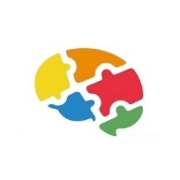
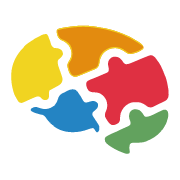
Подарок вместо бота, векторная фавиконка и единые иконки

diff --git a/gift.js b/gift.js
@@ -1,0 +1,268 @@
+/**
+ * Окно «Заявка отправлена» с подарком. Общее для всех сайтов.
+ * Настройка — атрибутами на своём теге script:
+ *   data-gift-url      — ссылка на подарок (обязательна, иначе кнопки не будет);
+ *   data-channel-url   — ссылка на канал (без неё вторая кнопка не выводится);
+ *   data-channel-label — подпись второй кнопки;
+ *   data-accent        — основной цвет;
+ *   data-logo          — картинка в шапке окна;
+ *   data-title         — заголовок;
+ *   data-text          — текст под заголовком.
+ */
+(function () {
+  'use strict';
+
+  if (window.KotiksymGift) return;
+
+  var script = document.currentScript || (function () {
+    var all = document.getElementsByTagName('script');
+    return all[all.length - 1];
+  })();
+
+  function attr(name, fallback) {
+    var v = script && script.getAttribute(name);
+    return v == null || v === '' ? fallback : v;
+  }
+
+  var GIFT_URL = attr('data-gift-url', '');
+  var CHANNEL_URL = attr('data-channel-url', '');
+  var CHANNEL_LABEL = attr('data-channel-label', 'Перейти в наш канал');
+  var GIFT_LABEL = attr('data-gift-label', 'Забрать подарок');
+  var ACCENT = attr('data-accent', '#3B4FE0');
+  var LOGO = attr('data-logo', '');
+  var TITLE = attr('data-title', 'Заявка отправлена');
+  var TEXT = attr('data-text', 'Мы свяжемся с вами по указанному номеру. А подарок можно забрать прямо сейчас.');
+
+  var MODAL_ID = 'successModal';
+  var root = null;
+  var card = null;
+  var lastFocus = null;
+  var prevOverflow = '';
+
+  function el(tag, style, text) {
+    var node = document.createElement(tag);
+    if (style) node.setAttribute('style', style);
+    if (text != null) node.textContent = text;
+    return node;
+  }
+
+  /** Внешняя ссылка-кнопка. */
+  function linkButton(href, label, style, cta) {
+    var a = el('a', style, label);
+    a.href = href;
+    a.target = '_blank';
+    a.rel = 'noopener noreferrer';
+    if (cta) a.setAttribute('data-cta', cta);
+    return a;
+  }
+
+  function build() {
+    root = el('div', [
+      'display:none',
+      'position:fixed',
+      'inset:0',
+      'z-index:2147483000',
+      'background:rgba(27,25,54,.55)',
+      '-webkit-backdrop-filter:blur(3px)',
+      'backdrop-filter:blur(3px)',
+      'place-items:center',
+      'padding:20px',
+      'overflow:auto'
+    ].join(';'));
+    root.id = MODAL_ID;
+    root.setAttribute('role', 'dialog');
+    root.setAttribute('aria-modal', 'true');
+    root.setAttribute('aria-label', TITLE);
+
+    card = el('div', [
+      'position:relative',
+      'width:min(430px,100%)',
+      'box-sizing:border-box',
+      'background:#fff',
+      'border-radius:22px',
+      'padding:34px 28px 26px',
+      'text-align:center',
+      'box-shadow:0 30px 80px rgba(27,25,54,.38)',
+      'font-family:inherit'
+    ].join(';'));
+
+    var close = el('button', [
+      'position:absolute',
+      'top:12px',
+      'right:12px',
+      'width:34px',
+      'height:34px',
+      'border:0',
+      'border-radius:10px',
+      'background:#F2F2F5',
+      'color:#6f6a64',
+      'cursor:pointer',
+      'font-size:17px',
+      'line-height:1',
+      'display:grid',
+      'place-items:center'
+    ].join(';'), '\u2715');
+    close.type = 'button';
+    close.setAttribute('aria-label', 'Закрыть');
+    close.addEventListener('click', hide);
+    card.appendChild(close);
+
+    if (LOGO) {
+      var logo = document.createElement('img');
+      logo.src = LOGO;
+      logo.alt = '';
+      logo.setAttribute('style', 'width:72px;height:72px;border-radius:18px;object-fit:contain;background:#fff;border:1px solid #ECECF1;padding:7px;margin:0 auto 16px;display:block');
+      card.appendChild(logo);
+    }
+
+    var badge = el('div', [
+      'display:inline-block',
+      'padding:6px 13px',
+      'border-radius:999px',
+      'background:#EAF6EF',
+      'color:#1F7A54',
+      'font-size:13px',
+      'font-weight:600',
+      'margin-bottom:13px'
+    ].join(';'), 'Заявка отправлена');
+    card.appendChild(badge);
+
+    var h = el('h3', [
+      'font-weight:700',
+      'font-size:23px',
+      'line-height:1.2',
+      'letter-spacing:-.02em',
+      'margin:0 0 10px',
+      'color:#1B1936'
+    ].join(';'), TITLE);
+    card.appendChild(h);
+
+    var p = el('p', [
+      'font-size:15px',
+      'line-height:1.55',
+      'color:#6f6a64',
+      'margin:0 0 22px'
+    ].join(';'), TEXT);
+    card.appendChild(p);
+
+    var actions = el('div', 'display:grid;gap:10px');
+
+    var baseButton = [
+      'display:flex',
+      'align-items:center',
+      'justify-content:center',
+      'gap:8px',
+      'width:100%',
+      'box-sizing:border-box',
+      'padding:15px 16px',
+      'border-radius:13px',
+      'font-weight:700',
+      'font-size:16px',
+      'text-decoration:none',
+      'cursor:pointer'
+    ].join(';');
+
+    if (GIFT_URL) {
+      actions.appendChild(linkButton(
+        GIFT_URL,
+        '\uD83C\uDF81 ' + GIFT_LABEL,
+        baseButton + ';color:#fff;background:' + ACCENT + ';box-shadow:0 12px 26px rgba(27,25,54,.22)',
+        'gift'
+      ));
+    }
+
+    if (CHANNEL_URL) {
+      actions.appendChild(linkButton(
+        CHANNEL_URL,
+        CHANNEL_LABEL,
+        baseButton + ';color:' + ACCENT + ';background:#fff;border:1.5px solid ' + ACCENT,
+        'channel'
+      ));
+    }
+
+    card.appendChild(actions);
+
+    var later = el('button', [
+      'margin-top:12px',
+      'background:none',
+      'border:0',
+      'color:#9b9590',
+      'font:inherit',
+      'font-size:14px',
+      'cursor:pointer',
+      'text-decoration:underline',
+      'text-underline-offset:2px'
+    ].join(';'), 'Позже');
+    later.type = 'button';
+    later.addEventListener('click', hide);
+    card.appendChild(later);
+
+    root.appendChild(card);
+
+    root.addEventListener('click', function (e) {
+      if (e.target === root) hide();
+    });
+
+    document.body.appendChild(root);
+  }
+
+  function onKeydown(e) {
+    if (e.key === 'Escape' || e.keyCode === 27) hide();
+  }
+
+  /** Старое окно из разметки страницы, если оно где-то осталось. */
+  function dropLegacy() {
+    var nodes = document.querySelectorAll('#' + MODAL_ID);
+    for (var i = 0; i < nodes.length; i++) {
+      if (nodes[i] !== root && nodes[i].parentNode) {
+        nodes[i].parentNode.removeChild(nodes[i]);
+      }
+    }
+  }
+
+  function ensure() {
+    if (!document.body) return false;
+    dropLegacy();
+    if (!root || !root.parentNode) build();
+    return true;
+  }
+
+  function show() {
+    if (!ensure()) {
+      document.addEventListener('DOMContentLoaded', show, { once: true });
+      return;
+    }
+    lastFocus = document.activeElement;
+    root.style.display = 'grid';
+    prevOverflow = document.body.style.overflow;
+    document.body.style.overflow = 'hidden';
+    document.addEventListener('keydown', onKeydown);
+    var first = card.querySelector('a, button');
+    if (first && first.focus) {
+      try { first.focus({ preventScroll: true }); } catch (e) { first.focus(); }
+    }
+  }
+
+  function hide() {
+    if (!root) return;
+    root.style.display = 'none';
+    document.body.style.overflow = prevOverflow;
+    document.removeEventListener('keydown', onKeydown);
+    if (lastFocus && lastFocus.focus) {
+      try { lastFocus.focus({ preventScroll: true }); } catch (e) {}
+    }
+  }
+
+  window.KotiksymGift = {
+    show: show,
+    hide: hide,
+    giftUrl: GIFT_URL,
+    channelUrl: CHANNEL_URL
+  };
+
+  if (document.readyState === 'loading') {
+    document.addEventListener('DOMContentLoaded', ensure);
+  } else {
+    ensure();
+  }
+})();

diff --git a/index.html b/index.html
@@ -43,9 +43,10 @@
 <meta property="og:url" content="https://english.kotiksym.ru/">
 <meta property="og:image" content="https://english.kotiksym.ru/images/hero.jpg">
 <meta property="og:locale" content="ru_RU">
+<link rel="icon" type="image/svg+xml" href="/favicon.svg">
 <link rel="icon" type="image/png" sizes="120x120" href="/favicon-120.png">
-<link rel="icon" type="image/png" sizes="512x512" href="/images/favicon-512.png">
 <link rel="icon" type="image/png" sizes="64x64" href="/favicon.png">
+<link rel="icon" type="image/png" sizes="512x512" href="/images/favicon-512.png">
 <link rel="icon" type="image/x-icon" href="/favicon.ico">
 <link rel="apple-touch-icon" sizes="180x180" href="/apple-touch-icon.png">
 <link rel="preconnect" href="https://fonts.googleapis.com">
@@ -430,6 +431,7 @@ footer a{color:var(--blue);text-decoration:underline;text-underline-offset:2px}
   <div class="wrap">КотиксУМ English · м. Планерная, ул. Вилиса Лациса, 5, корп. 1 · <a href="/license/">Лицензия</a> · <a href="/privacy/">Политика</a> · <a href="/consent/">Согласие</a> · <a href="/cookies/" data-cookie-settings>Cookie</a> · <a href="/offer/">Оферта</a> · <a href="/returns/">Возврат</a></div>
 </footer>
 
+  <script src="/gift.js" data-gift-url="https://drive.google.com/drive/folders/1tscaJg5__cIWqI_4mU_y8J8jGLXpgEdo?usp=sharing" data-channel-url="https://max.ru/channel_KotiksYM_Tushino" data-channel-label="Перейти в наш канал МАКС" data-accent="#315BFF" data-logo="/favicon-120.png" data-title="Заявка принята. Заберите подарок" data-text="Мы свяжемся с вами по указанному номеру. А подарок уже готов — заберите его прямо сейчас."></script>
 <script src="form.js"></script>
 </body>
 </html>

diff --git a/consent/index.html b/consent/index.html
@@ -9,9 +9,10 @@
 <meta name="description" content="Согласие на обработку персональных данных при отправке заявки на сайте КотиксУМ English. Какие данные обрабатываются, цели обработки и порядок отзыва согласия.">
 <meta property="og:url" content="https://english.kotiksym.ru/consent/">
 <meta name="robots" content="index, follow">
+<link rel="icon" type="image/svg+xml" href="/favicon.svg">
 <link rel="icon" type="image/png" sizes="120x120" href="/favicon-120.png">
-<link rel="icon" type="image/png" sizes="512x512" href="/images/favicon-512.png">
 <link rel="icon" type="image/png" sizes="64x64" href="/favicon.png">
+<link rel="icon" type="image/png" sizes="512x512" href="/images/favicon-512.png">
 <link rel="icon" type="image/x-icon" href="/favicon.ico">
 <link rel="apple-touch-icon" sizes="180x180" href="/apple-touch-icon.png">
 <script src="/cookie-consent.js" data-ym-id="110489022" data-cookie-page="/cookies/" data-privacy-page="/privacy/" data-accent="#315BFF"></script>

diff --git a/privacy/index.html b/privacy/index.html
@@ -9,9 +9,10 @@
 <meta name="description" content="Политика конфиденциальности и реквизиты КотиксУМ English. Порядок обработки персональных данных, права пользователей, контакты оператора. м. Планерная.">
 <meta property="og:url" content="https://english.kotiksym.ru/privacy/">
 <meta name="robots" content="index, follow">
+<link rel="icon" type="image/svg+xml" href="/favicon.svg">
 <link rel="icon" type="image/png" sizes="120x120" href="/favicon-120.png">
-<link rel="icon" type="image/png" sizes="512x512" href="/images/favicon-512.png">
 <link rel="icon" type="image/png" sizes="64x64" href="/favicon.png">
+<link rel="icon" type="image/png" sizes="512x512" href="/images/favicon-512.png">
 <link rel="icon" type="image/x-icon" href="/favicon.ico">
 <link rel="apple-touch-icon" sizes="180x180" href="/apple-touch-icon.png">
 <script src="/cookie-consent.js" data-ym-id="110489022" data-cookie-page="/cookies/" data-privacy-page="/privacy/" data-accent="#315BFF"></script>

diff --git a/license/index.html b/license/index.html
@@ -8,9 +8,10 @@
 <meta property="og:title" content="Лицензия и оплата обучения — КотиксУМ English">
 <meta property="og:description" content="Информация об образовательной лицензии КотиксУМ, налоговом вычете за обучение и возможности оплаты средствами материнского капитала.">
 <meta property="og:url" content="https://english.kotiksym.ru/license/">
+<link rel="icon" type="image/svg+xml" href="/favicon.svg">
 <link rel="icon" type="image/png" sizes="120x120" href="/favicon-120.png">
-<link rel="icon" type="image/png" sizes="512x512" href="/images/favicon-512.png">
 <link rel="icon" type="image/png" sizes="64x64" href="/favicon.png">
+<link rel="icon" type="image/png" sizes="512x512" href="/images/favicon-512.png">
 <link rel="icon" type="image/x-icon" href="/favicon.ico">
 <link rel="apple-touch-icon" sizes="180x180" href="/apple-touch-icon.png">
 <link rel="preconnect" href="https://fonts.googleapis.com">

diff --git a/cookies/index.html b/cookies/index.html
@@ -9,9 +9,10 @@
 <meta name="description" content="Какие cookie использует сайт КотиксУМ English, как дать и отозвать согласие на аналитику.">
 <meta property="og:url" content="https://english.kotiksym.ru/cookies/">
 <meta name="robots" content="index, follow">
+<link rel="icon" type="image/svg+xml" href="/favicon.svg">
 <link rel="icon" type="image/png" sizes="120x120" href="/favicon-120.png">
-<link rel="icon" type="image/png" sizes="512x512" href="/images/favicon-512.png">
 <link rel="icon" type="image/png" sizes="64x64" href="/favicon.png">
+<link rel="icon" type="image/png" sizes="512x512" href="/images/favicon-512.png">
 <link rel="icon" type="image/x-icon" href="/favicon.ico">
 <link rel="apple-touch-icon" sizes="180x180" href="/apple-touch-icon.png">
 <script src="/cookie-consent.js" data-ym-id="110489022" data-cookie-page="/cookies/" data-privacy-page="/privacy/" data-accent="#315BFF"></script>

diff --git a/offer/index.html b/offer/index.html
@@ -9,9 +9,10 @@
 <meta name="description" content="Публичная оферта на услуги дополнительного образования КотиксУМ English.">
 <meta property="og:url" content="https://english.kotiksym.ru/offer/">
 <meta name="robots" content="index, follow">
+<link rel="icon" type="image/svg+xml" href="/favicon.svg">
 <link rel="icon" type="image/png" sizes="120x120" href="/favicon-120.png">
-<link rel="icon" type="image/png" sizes="512x512" href="/images/favicon-512.png">
 <link rel="icon" type="image/png" sizes="64x64" href="/favicon.png">
+<link rel="icon" type="image/png" sizes="512x512" href="/images/favicon-512.png">
 <link rel="icon" type="image/x-icon" href="/favicon.ico">
 <link rel="apple-touch-icon" sizes="180x180" href="/apple-touch-icon.png">
 <script src="/cookie-consent.js" data-ym-id="110489022" data-cookie-page="/cookies/" data-privacy-page="/privacy/" data-accent="#315BFF"></script>

diff --git a/returns/index.html b/returns/index.html
@@ -9,9 +9,10 @@
 <meta name="description" content="Условия отказа от услуг и возврата оплаты в КотиксУМ English.">
 <meta property="og:url" content="https://english.kotiksym.ru/returns/">
 <meta name="robots" content="index, follow">
+<link rel="icon" type="image/svg+xml" href="/favicon.svg">
 <link rel="icon" type="image/png" sizes="120x120" href="/favicon-120.png">
-<link rel="icon" type="image/png" sizes="512x512" href="/images/favicon-512.png">
 <link rel="icon" type="image/png" sizes="64x64" href="/favicon.png">
+<link rel="icon" type="image/png" sizes="512x512" href="/images/favicon-512.png">
 <link rel="icon" type="image/x-icon" href="/favicon.ico">
 <link rel="apple-touch-icon" sizes="180x180" href="/apple-touch-icon.png">
 <script src="/cookie-consent.js" data-ym-id="110489022" data-cookie-page="/cookies/" data-privacy-page="/privacy/" data-accent="#315BFF"></script>

diff --git a/form.js b/form.js
@@ -247,6 +247,7 @@
       lastSentKey = key;
       goal('lead_form_submit');
       setStatus('Заявка отправлена. Мы свяжемся с вами по указанному номеру.', 'ok');
+      if (window.KotiksymGift) window.KotiksymGift.show();
       if (nameEl) nameEl.value = '';
       if (phoneEl) phoneEl.value = '';
       if (ageEl) ageEl.value = '';
